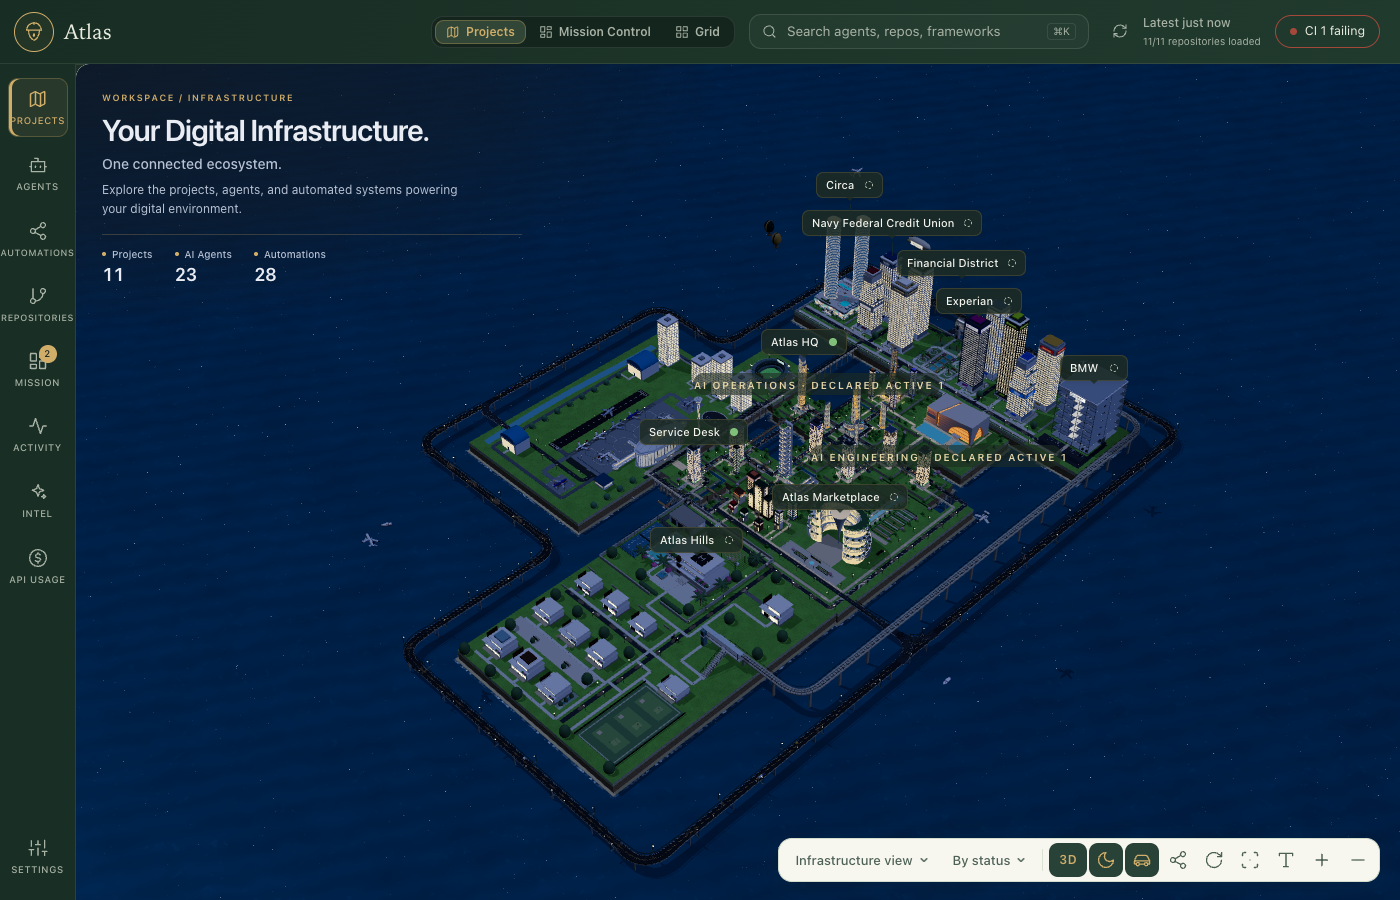
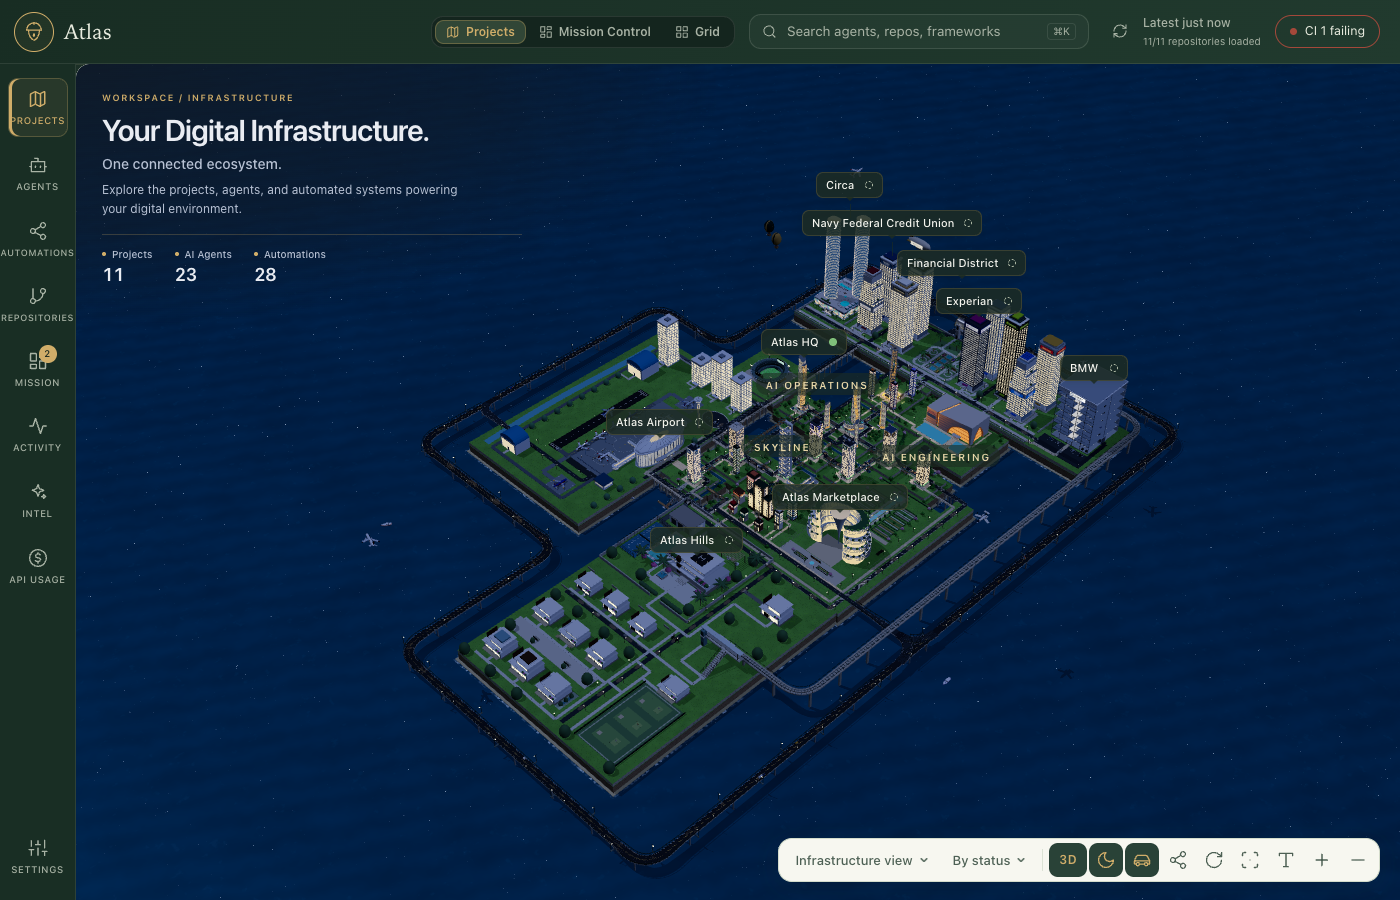
Keep district labels free of tag and status suffixes

Changed region(s): [[0.43, 0.4044, 0.7679, 0.5289]]

diff --git a/src/views/mapPresentation.ts b/src/views/mapPresentation.ts
@@ -1,14 +1,8 @@
 import type {GroupBy,Layout} from './mapLayout';
-/** Sorting changes information, never the city's geographic/transport plan. */
+/** Grouping never changes district names or the city's geographic/transport plan. */
 export function districtHeadings(layout:Layout,mode:GroupBy){
  if(mode==='none')return [];
- return layout.neighborhoods.map(n=>{
-  const projects=layout.districts.filter(d=>d.group===n.key).map(d=>d.project);
-  const values=mode==='status'?projects.map(p=>p.status):mode==='tag'?projects.flatMap(p=>p.tags):[];
-  const counts=new Map<string,number>();for(const value of values)counts.set(value,(counts.get(value)??0)+1);
-  const summary=[...counts].sort(([a,ac],[b,bc])=>bc-ac||a.localeCompare(b)).slice(0,2).map(([value,count])=>`${mode==='status'?'Declared ':'#'}${value} ${count}`).join(' · ');
-  return {...n,label:summary?`${n.label} · ${summary}`:n.label};
- });
+ return layout.neighborhoods;
 }
 /** Primary buildings share one rule; only supporting rooms/tools wait for closer zoom. */
 export function mapLabelVisible(kind:'building'|'detail',near:'far'|'mid'|'near',selected=false,hovered=false,parentSelected=false){

diff --git a/src/views/mapPresentation.test.ts b/src/views/mapPresentation.test.ts
@@ -7,10 +7,10 @@ it('changes headings without moving or mutating district geometry',()=>{
  for(const mode of ['none','district','status','tag'] as GroupBy[]){
   const headings=districtHeadings(layout,mode);
   if(mode==='none')expect(headings).toEqual([]);
-  else for(const h of headings){const original=layout.neighborhoods.find(n=>n.key===h.key)!;expect(h).toMatchObject({ox:original.ox,oy:original.oy,w:original.w,h:original.h});expect(h.label).toContain(original.label);}
+  else for(const h of headings){const original=layout.neighborhoods.find(n=>n.key===h.key)!;expect(h).toMatchObject({ox:original.ox,oy:original.oy,w:original.w,h:original.h});expect(h.label).toBe(original.label);}
   expect(JSON.stringify(layout)).toBe(before);
  }
- expect(districtHeadings(layout,'status').some(n=>n.label.includes('active'))).toBe(true);
+ expect(districtHeadings(layout,'status')).toEqual(districtHeadings(layout,'tag'));
 });
 it('shows every primary building at the same zoom level and reveals supporting detail consistently',()=>{
  for(const distance of ['far','mid','near'] as const){

diff --git a/src/views/Map.tsx b/src/views/Map.tsx
@@ -1169,7 +1169,7 @@ export function MapView({active=true}:{active?:boolean}) {
             <MapSelect label="Map view" value={lens} options={MAP_LENSES} text={(l) => LENS_INFO[l].label} short={(l) => LENS_INFO[l].label.replace(/ view$/, "")} onChange={setLens} disabled={!is3d}
               title={is3d ? LENS_INFO[lens].hint : "Connection views are available in 3D. Your selection is saved."} />
             <MapSelect label="Group projects" value={groupBy} options={Object.keys(GROUP_LABEL) as GroupBy[]} text={(g) => GROUP_LABEL[g]} onChange={setGroupBy}
-              title="Keep district locations; show district names, declared status, tags, or no group headings" />
+              title="Keep district locations and clean district names; no grouping hides district headings" />
             <span className="sep" />
             {webglAvailable() && (
               <button className={`icon-btn text ${is3d ? "on" : ""}`} onClick={() => setMode(is3d ? "2d" : "3d")} aria-pressed={is3d} aria-label="3D map" title={is3d ? "Switch to the flat map" : "Switch to the 3D map"}>

diff --git a/visual/district-presentation.visual.ts b/visual/district-presentation.visual.ts
@@ -19,7 +19,7 @@ test('grouping preserves city geometry and camera; labels and controls stay cons
   await page.getByRole('combobox',{name:'Group projects',exact:true}).selectOption(mode);await settle(page,2);
   expect(await scene()).toEqual(baseline);
   if(mode==='none')await expect(page.locator('.m3-pill.hood.district')).toHaveCount(0);
-  if(mode==='status')await expect(page.locator('.m3-pill.hood.district').filter({hasText:/Declared/i}).first()).toHaveCount(1);
+  await expect(page.locator('.m3-pill.hood.district').filter({hasText:/Declared|#/i})).toHaveCount(0);
   await page.screenshot({path:`artifacts/district-presentation/${mode}.png`});
  }
  await page.getByRole('combobox',{name:'Map view',exact:true}).selectOption('automations');await settle(page,1);

diff --git a/docs/district-map-presentation.md b/docs/district-map-presentation.md
@@ -1,6 +1,6 @@
 # District-based map presentation
 
-All four map grouping choices now share the district layout. Grouping no longer reallocates lots, rebuilds transportation or resets the camera. No grouping hides group headings; district shows district names; status and tag modes summarize real declared project metadata within each district. These are presentation views, not new physical city layouts. Declared status is labelled explicitly and is not GitHub health.
+All four map grouping choices now share the district layout. Grouping no longer reallocates lots, rebuilds transportation or resets the camera. No grouping hides group headings; district shows district names; status and tag modes retain plain district names without extra metadata text. These are presentation views, not new physical city layouts.
 
 The message above the bottom-right map controls is removed in every connection lens. Existing selector tooltips remain.
 
@@ -9,3 +9,5 @@ Financial tower names now qualify at overview distance just like project headqua
 Nine focused presentation, group-label and plaque tests passed. Lint, type checks and build passed. The browser regression switches all four grouping modes and compares rendered instance transforms, object identities and camera matrices. It also checks overview label eligibility, removed messaging, automation view and selection. Screenshots are fixture-based, not proof of live repository state.
 
 This branch is stacked on PR #199 so its preview includes the zoom and direct night renderer. Not merged or deployed.
+
+Label cleanup: status and tag choices retain only plain district names. Removed the added hashtag and declared-status/count suffixes at the user’s request. No grouping still hides headings.
